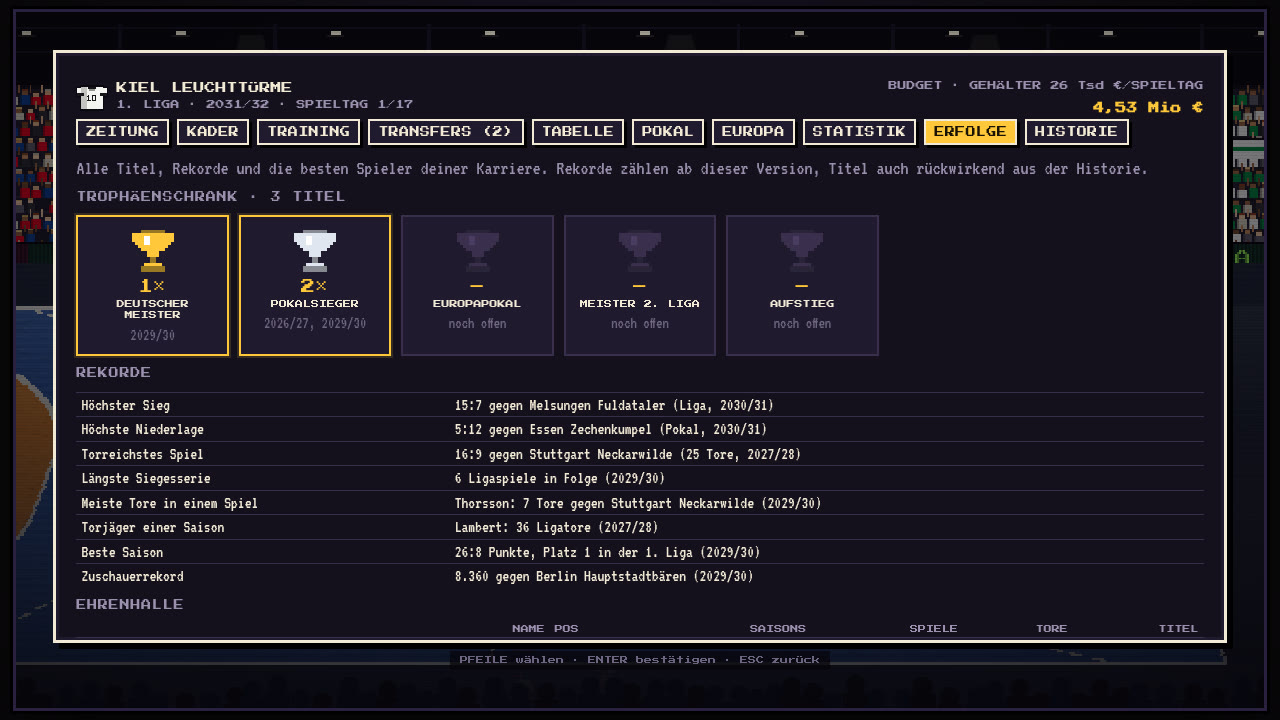
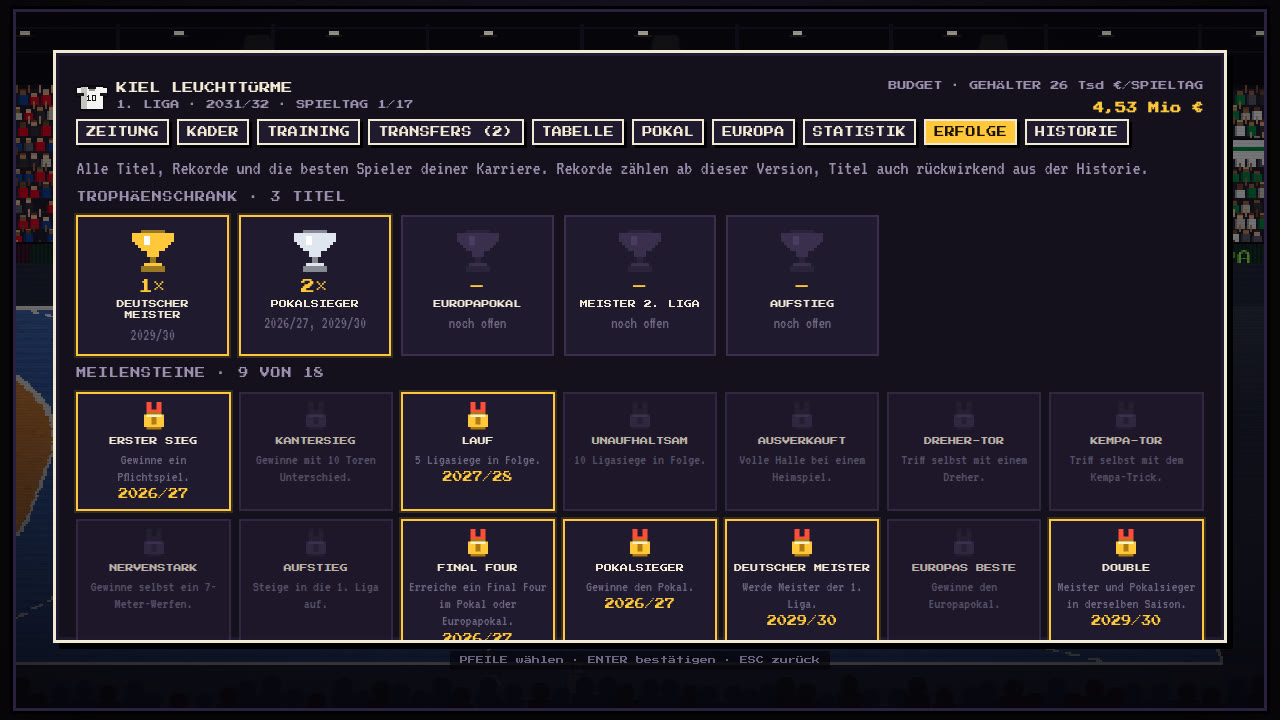
README-Screenshots: Titelbildschirm, Spielszene und Erfolge neu
- title-screen.jpg zeigte noch "© 2026 tobwil · Open Source (MIT)", jetzt
  die aktuelle Copyright-Zeile; gameplay.jpg mit aktuellen Namen;
  career-trophies.jpg mit Meilensteinen. Bildbeschreibung angepasst.
- bilder.js nimmt jetzt auch Titelbildschirm und Spielszene auf und
  wiederholt das Handy-Bild, falls gerade ein Pfiff läuft.

Claude-Session: https://claude.ai/code/session_01KKDZCGMYGcypLRLX9DG4SL

diff --git a/tools/promo/bilder.js b/tools/promo/bilder.js
@@ -1,4 +1,4 @@
-/* Nimmt Standbilder für README und Landingpage auf (PNG, 1280 × 720, Handy 1278 × 590): Teamauswahl, Karriere
+/* Nimmt Standbilder für README und Landingpage auf (PNG, 1280 × 720, Handy 1278 × 590): Titelbildschirm, Spielszene, Teamauswahl, Karriere
    (Zeitung, Statistik, Pokal, Europapokal, Kader, Spielerkarte, Scouting-Karte, Erfolge), Vor dem Spiel, Teilen-Bild und Handy im Querformat.
    Aufruf: node bilder.js <Ausgabeordner> [Basis-URL]
    Fester Zufall: die Menübilder sind bei jedem Aufruf gleich (das Handybild läuft in Echtzeit und kann leicht abweichen). promo.sh wandelt sie in JPG für docs/screenshots/ um.
@@ -19,6 +19,16 @@ const SEED = s => { window.__seed = s => { let x = s; Math.random = () => (x = (
     await p.goto(BASE + '/game/index.html'); await p.waitForTimeout(700); return { p, ctx };
   };
   const shot = (p, name) => p.screenshot({ path: path.join(OUT, name + '.png') });
+
+  // Titelbildschirm (Demo-Spiel im Hintergrund, Copyright-Zeile)
+  { const { p, ctx } = await open(2026);
+    await p.waitForTimeout(1500); await shot(p, 'title-screen'); await ctx.close(); }
+
+  // Spielszene: Kiel gegen Flensburg kurz nach dem Anpfiff, Name über dem eigenen Spieler
+  { const { p, ctx } = await open(2026);
+    await p.evaluate(() => { __seed(2026); startMatch(TEAMS.find(t => t.k === 'KIE').id, TEAMS.find(t => t.k === 'FLE').id, { human: 0, halfLen: 180 }); G.introT = 99; });
+    await p.waitForFunction(() => G && G.phase === 'play', null, { timeout: 20000 }); await p.waitForTimeout(1200);
+    await shot(p, 'gameplay'); await ctx.close(); }
 
   // Schnelles Spiel: Kiel gegen Flensburg
   { const { p, ctx } = await open(2026);
@@ -57,11 +67,15 @@ const SEED = s => { window.__seed = s => { let x = s; Math.random = () => (x = (
     await p.evaluate(() => { __seed(21); return shareCard('career'); }); await p.waitForSelector('#menu img.sharecard'); await p.waitForTimeout(300);
     await shot(p, 'share-card'); await ctx.close(); }
 
-  // Handy quer: Spielfeld über die volle Breite, durchscheinende Touch-Knöpfe
-  { const { p, ctx } = await open(4242, { viewport: { width: 852, height: 393 }, isMobile: true, hasTouch: true, deviceScaleFactor: 1.5 });
+  // Handy quer: Spielfeld über die volle Breite, durchscheinende Touch-Knöpfe. Läuft in Echtzeit: Liegt gerade ein Pfiff an (Foul, Freiwurf), neu aufnehmen
+  for (let k = 0; k < 4; k++) {
+    const { p, ctx } = await open(4242, { viewport: { width: 852, height: 393 }, isMobile: true, hasTouch: true, deviceScaleFactor: 1.5 });
     await p.evaluate(() => { localStorage.setItem('hl4_touchtip', '9'); document.body.classList.add('touch'); startMatch(TEAMS.find(t => t.k === 'KIE').id, TEAMS.find(t => t.k === 'FLE').id, { human: 0, halfLen: 180 }); G.introT = 99; });
     await p.waitForFunction(() => G && G.phase === 'play', null, { timeout: 20000 }); await p.waitForTimeout(2500);
-    await shot(p, 'mobile'); await ctx.close(); }
+    const clean = await p.evaluate(() => G.phase === 'play');
+    if (clean || k === 3) await shot(p, 'mobile');
+    await ctx.close(); if (clean) break;
+  }
 
   await b.close();
 })();

diff --git a/README.md b/README.md
@@ -23,7 +23,7 @@ Actual browser gameplay and menus. Click any image to view it at full size.
 | **Final Four** | **Europapokal · European cup** |
 | [![Final Four in der lila Event-Halle: Kiel holt den Europapokal, Konfetti in den Vereinsfarben](docs/screenshots/final-four.jpg)](docs/screenshots/final-four.jpg) | [![Europapokal im Karriere-Modus: Gruppentabellen, Ergebnisse und Turnierbaum bis zum Sieger](docs/screenshots/career-euro.jpg)](docs/screenshots/career-euro.jpg) |
 | **Vor dem Spiel · Pre-match comparison** | **Erfolge · Achievements** |
-| [![Vor dem Spiel: Kiel gegen Berlin mit Tabellenplatz, Form der letzten fünf Spiele, Sternen für Angriff, Abwehr und Tor, Topwerfer und Hinspiel](docs/screenshots/prematch.jpg)](docs/screenshots/prematch.jpg) | [![Tab Erfolge: Trophäenschrank mit Meisterschaft, Pokal und Europapokal, darunter die Rekorde der Karriere](docs/screenshots/career-trophies.jpg)](docs/screenshots/career-trophies.jpg) |
+| [![Vor dem Spiel: Kiel gegen Berlin mit Tabellenplatz, Form der letzten fünf Spiele, Sternen für Angriff, Abwehr und Tor, Topwerfer und Hinspiel](docs/screenshots/prematch.jpg)](docs/screenshots/prematch.jpg) | [![Tab Erfolge: Trophäenschrank mit Meisterschaft und Pokal, darunter die Meilensteine der Karriere mit Saison](docs/screenshots/career-trophies.jpg)](docs/screenshots/career-trophies.jpg) |
 | **Kader mit Potenzial · Squad with potential** | **Karriere als Bild teilen · Share your career** |
 | [![Kader mit Gesamtwert, Potenzial und Trend, Einzelwerten, Form, Fitness, Toren, Vertrag und Marktwert](docs/screenshots/career-squad.jpg)](docs/screenshots/career-squad.jpg) | [![Teilen-Bild der Karriere: drei Titel in fünf Saisons, beste Saison, höchster Sieg, Torjäger und Vereinslegende](docs/screenshots/share-card.jpg)](docs/screenshots/share-card.jpg) |
 | **Spielerkarte · Player card** | **Scouting-Karte · Scouting card** |

diff --git a/CHANGELOG.md b/CHANGELOG.md
@@ -8,6 +8,7 @@ Alle Versionen bis v7.8 entstanden am 1. Oktober 2026 in einer durchgehenden Ent
 - **Ältere Karrieren** bekommen Meilensteine beim ersten Laden aus Titeln, Rekorden, Historie und Ehrenhalle nachgetragen, ohne Zeitungsmeldung.
 - **Plattform:** Jeder Meilenstein geht als Ereignis `meilenstein` mit `{ id }` an die Plattform-Schnittstelle (und an Umami), nachgetragene mit `{ id, nachtrag: true }`. So kann die iOS-App sie zum Beispiel als Game-Center-Erfolge melden.
 - **Spieler des Spiels** steht jetzt auch in der Spieltagsmeldung der Zeitung. Gezählt wurde er schon vorher, auf der Spielerkarte.
+- **README-Screenshots aktualisiert:** Titelbildschirm (zeigte noch „© 2026 tobwil · Open Source (MIT)“), Spielszene (aktuelle Namen) und Tab ERFOLGE mit Meilensteinen. `tools/promo/bilder.js` nimmt jetzt auch Titelbildschirm und Spielszene auf und wiederholt das Handy-Bild, falls gerade ein Pfiff läuft. Die übrigen Bilder sind inhaltlich aktuell.
 - Spielablauf, Balance und Simulation bleiben unverändert. 1 neuer Regressionstest (Auszeichnungen gegen Liga, Einsätze und Alter geprüft, Zeitung, Saisonbilanz, Meilenstein mit Saison und genau einmal, Plattform-Ereignis, Dreher-Tor im Karriere-Spiel, stiller Nachtrag, Anzeige), insgesamt 50. Zwei Erfolge-Tests zählen nur noch Trophäenschrank und Rekorde.
 
 ## v8.29: App Store und Copyright
